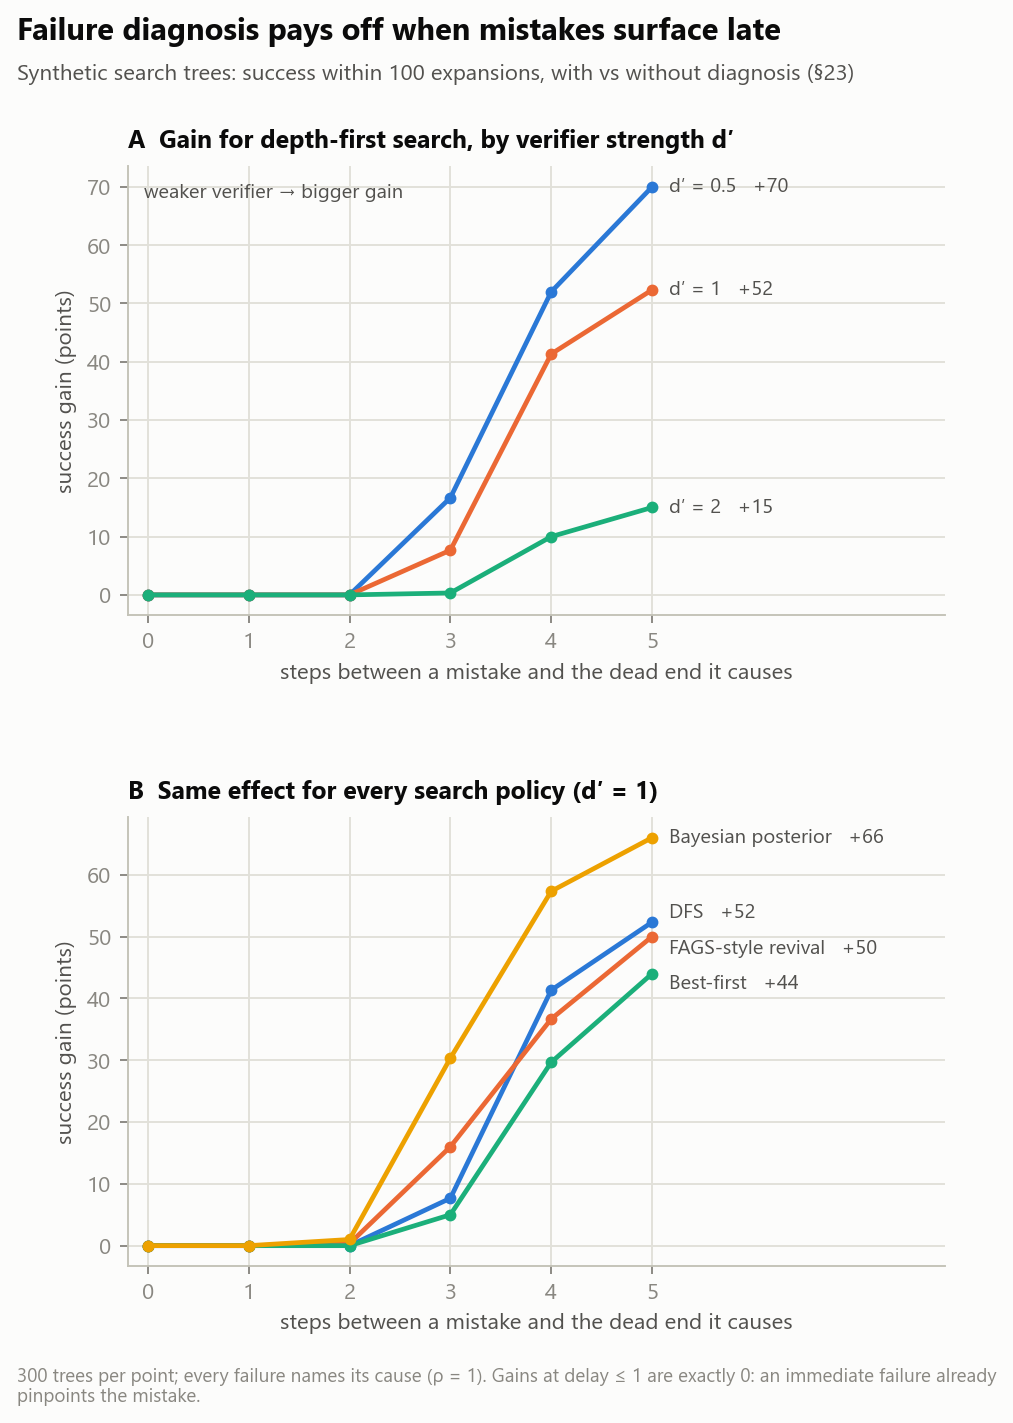
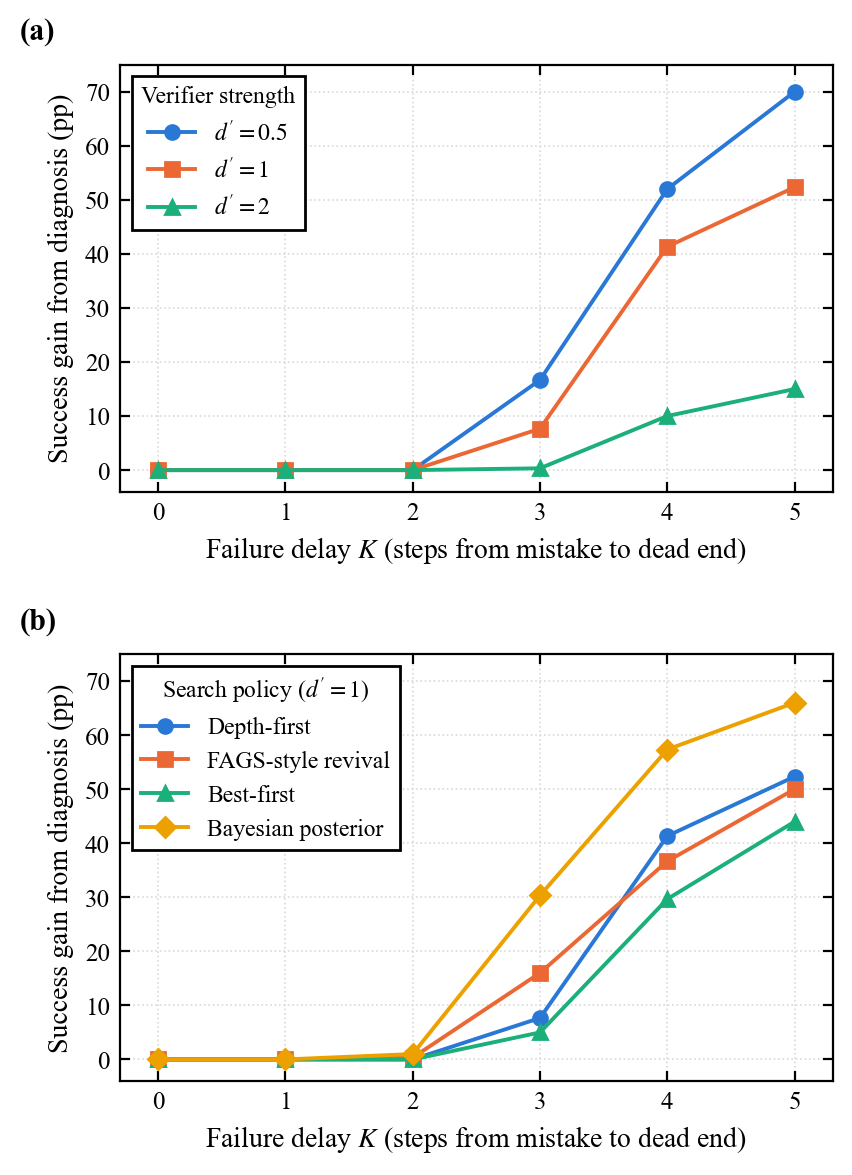
docs: restyle README figures as paper-style plots
Serif type, boxed axes with inward ticks, (a)/(b) panel labels, boxed legends and a distinct marker per series; titles and notes moved out of the images into the README captions.

diff --git a/make_readme_figures.py b/make_readme_figures.py
@@ -1,6 +1,7 @@
 """Builds the four README figures in docs/figures/ from the result files in
-results/v2/. Each figure is a portrait, two-part summary of one finding:
-a headline view plus a supporting view. Rerun after any experiment rerun."""
+results/v2/, in a conventional paper style: serif type, boxed axes, panel
+labels (a)/(b), boxed legends, distinct markers per series, no titles inside
+the image (the captions live in the README). Rerun after any experiment rerun."""
 
 from __future__ import annotations
 
@@ -22,111 +23,90 @@ RES = os.path.join(ROOT, "results", "v2")
 OUT = os.path.join(ROOT, "docs", "figures")
 os.makedirs(OUT, exist_ok=True)
 
-# Reference palette (dataviz skill), light mode. Slots 1-4 validated as a set
-# for adjacent-pair use; the lighter slots always carry direct labels.
-S1, S2, S3, S4 = "#2a78d6", "#eb6834", "#1baf7a", "#eda100"
-INK, INK2, MUTED, GRID, AXIS, SURF = "#0b0b0b", "#52514e", "#898781", "#e1e0d9", "#c3c2b7", "#fcfcfb"
-NEUTRAL = "#b9b7ae"  # baseline conditions
+# Colour-blind-safe categorical colours (validated as a set); every series also
+# gets its own marker and the legend names it, so colour is never needed alone.
+C1, C2, C3, C4 = "#2a78d6", "#eb6834", "#1baf7a", "#eda100"
+GRAY = "#9a9a9a"
+MARKERS = ["o", "s", "^", "D"]
 plt.rcParams.update({
-    "font.family": ["Segoe UI", "DejaVu Sans"], "font.size": 9.5, "text.color": INK,
-    "axes.edgecolor": AXIS, "axes.labelcolor": INK2, "xtick.color": MUTED, "ytick.color": MUTED,
-    "axes.facecolor": SURF, "figure.facecolor": SURF, "axes.spines.top": False, "axes.spines.right": False,
-    "axes.grid": True, "grid.color": GRID, "grid.linewidth": 0.8, "axes.axisbelow": True,
-    "legend.frameon": False, "savefig.dpi": 170, "savefig.bbox": "tight",
+    "font.family": "serif", "font.serif": ["Times New Roman", "DejaVu Serif"], "mathtext.fontset": "stix",
+    "font.size": 10, "axes.labelsize": 10, "xtick.labelsize": 9, "ytick.labelsize": 9, "legend.fontsize": 8.5,
+    "axes.linewidth": 0.8, "axes.edgecolor": "black", "axes.facecolor": "white", "figure.facecolor": "white",
+    "xtick.direction": "in", "ytick.direction": "in", "xtick.top": True, "ytick.right": True,
+    "xtick.major.width": 0.8, "ytick.major.width": 0.8,
+    "axes.grid": True, "grid.color": "#d9d9d9", "grid.linestyle": ":", "grid.linewidth": 0.6, "axes.axisbelow": True,
+    "legend.frameon": True, "legend.edgecolor": "black", "legend.fancybox": False, "legend.framealpha": 1.0,
+    "lines.linewidth": 1.4, "lines.markersize": 5, "savefig.dpi": 200, "savefig.bbox": "tight",
 })
-PORTRAIT = (6.2, 8.4)
+PORTRAIT = (4.6, 6.6)
 
 
-def header(fig, title, subtitle):
-    fig.text(0.02, 0.985, title, fontsize=13, fontweight="bold", color=INK, va="top")
-    fig.text(0.02, 0.952, subtitle, fontsize=9.5, color=INK2, va="top")
+def label(ax, letter):
+    ax.text(-0.14, 1.04, f"({letter})", transform=ax.transAxes, fontsize=11, fontweight="bold", va="bottom")
 
 
-def panel_title(ax, letter, text):
-    ax.set_title(f"{letter}  {text}", loc="left", fontsize=10.5, fontweight="bold", color=INK, pad=8)
-
-
-def footnote(fig, text):
-    fig.text(0.02, 0.012, text, fontsize=8, color=MUTED, va="bottom", wrap=True)
-
-
-def end_label(ax, x, y, text, color=INK2, dy=0):
-    ax.annotate(text, (x, y), xytext=(7, dy), textcoords="offset points", va="center", fontsize=8.5, color=color)
-
-
-# 1. Failure delay: diagnosis gain grows with how late mistakes surface.
+# Figure 1. Diagnosis gain vs failure delay.
 def fig_delay():
     succ = defaultdict(dict)
     for r in csv.DictReader(open(os.path.join(RES, "failure_informativeness.csv"), encoding="utf-8")):
         if r["rho"] == "1.0":
             succ[(float(r["d_prime"]), int(r["max_delay"]))][r["method"]] = float(r["success@100"])
     ks = list(range(6))
-    fig, (a1, a2) = plt.subplots(2, 1, figsize=PORTRAIT, gridspec_kw={"hspace": 0.45})
-    header(fig, "Failure diagnosis pays off when mistakes surface late",
-           "Synthetic search trees: success within 100 expansions, with vs without diagnosis (§23)")
-    for d, color in zip((0.5, 1.0, 2.0), (S1, S2, S3)):
-        g = [100 * (succ[(d, k)]["DFS+diag"] - succ[(d, k)]["DFS"]) for k in ks]
-        a1.plot(ks, g, color=color, lw=2, marker="o", ms=4)
-        end_label(a1, ks[-1], g[-1], f"d′ = {d:g}   +{g[-1]:.0f}")
-    panel_title(a1, "A", "Gain for depth-first search, by verifier strength d′")
-    a1.set_ylabel("success gain (points)")
-    a1.text(0.02, 0.93, "weaker verifier → bigger gain", transform=a1.transAxes, fontsize=8.5, color=INK2)
-    pol = [("DFS", "DFS", S1, 4), ("FAGS-style", "FAGS-style revival", S2, -5), ("BestFirst-mean", "Best-first", S3, -4),
-           ("Posterior", "Bayesian posterior", S4, 0)]
-    for base, label, color, dy in pol:
-        g = [100 * (succ[(1.0, k)][f"{base}+diag"] - succ[(1.0, k)][base]) for k in ks]
-        a2.plot(ks, g, color=color, lw=2, marker="o", ms=4)
-        end_label(a2, ks[-1], g[-1], f"{label}   +{g[-1]:.0f}", dy=dy)
-    panel_title(a2, "B", "Same effect for every search policy (d′ = 1)")
-    a2.set_ylabel("success gain (points)")
-    for ax in (a1, a2):
-        ax.set_xlim(-0.2, 7.9)
+    fig, (a1, a2) = plt.subplots(2, 1, figsize=PORTRAIT, gridspec_kw={"hspace": 0.38})
+    for (d, color), m in zip(zip((0.5, 1.0, 2.0), (C1, C2, C3)), MARKERS):
+        a1.plot(ks, [100 * (succ[(d, k)]["DFS+diag"] - succ[(d, k)]["DFS"]) for k in ks],
+                color=color, marker=m, label=f"$d'={d:g}$")
+    a1.legend(title="Verifier strength", loc="upper left", title_fontsize=8.5)
+    pol = [("DFS", "Depth-first"), ("FAGS-style", "FAGS-style revival"), ("BestFirst-mean", "Best-first"),
+           ("Posterior", "Bayesian posterior")]
+    for (base, name), color, m in zip(pol, (C1, C2, C3, C4), MARKERS):
+        a2.plot(ks, [100 * (succ[(1.0, k)][f"{base}+diag"] - succ[(1.0, k)][base]) for k in ks],
+                color=color, marker=m, label=name)
+    a2.legend(title="Search policy ($d'=1$)", loc="upper left", title_fontsize=8.5)
+    for ax, letter in ((a1, "a"), (a2, "b")):
         ax.set_xticks(ks)
-        ax.set_xlabel("steps between a mistake and the dead end it causes")
-    footnote(fig, "300 trees per point; every failure names its cause (ρ = 1). Gains at delay ≤ 1 are exactly 0: "
-                  "an immediate failure already pinpoints the mistake.")
+        ax.set_xlim(-0.3, 5.3)
+        ax.set_ylim(-4, 75)
+        ax.set_xlabel("Failure delay $K$ (steps from mistake to dead end)")
+        ax.set_ylabel("Success gain from diagnosis (pp)")
+        label(ax, letter)
     fig.savefig(os.path.join(OUT, "diagnosis_vs_delay.png"))
     plt.close(fig)
 
 
-# 2. LLM code repair: small multiples, one panel per model, with 95% CIs.
+# Figure 2. LLM code repair by feedback type, one panel per model.
 def fig_llm():
-    conds = [("restart", "Fresh retry", NEUTRAL), ("binary", '"It failed"', NEUTRAL),
-             ("diagnostic", "Exact diagnosis", S1),
-             ("noisy_hard", "50%-wrong diagnosis, as fact", S2), ("noisy_soft", "…flagged as unreliable", S2),
-             ("noisy_verify", "…model told to verify", S2), ("noisy_vote2", "…two checkers must agree", S2)]
+    conds = [("restart", "Fresh retry", GRAY), ("binary", "Failure signal only", GRAY),
+             ("diagnostic", "Exact diagnosis", C1),
+             ("noisy_hard", "Noisy diagnosis (as fact)", C2), ("noisy_soft", "Noisy, flagged unreliable", C2),
+             ("noisy_verify", "Noisy, model verifies", C2), ("noisy_vote2", "Noisy, two checkers agree", C2)]
     models = ["qwen3.8-27b", "gpt-oss-120b", "gpt-oss-20b"]
-    fig, axes = plt.subplots(3, 1, figsize=(6.2, 9.4), sharex=True, gridspec_kw={"hspace": 0.35})
-    header(fig, "LLMs repair code when told why it failed",
-           "MBPP+ problems whose first attempt failed; success on hidden tests within 3 LLM calls (§29, §33a)")
-    for ax, tag in zip(axes, models):
+    fig, axes = plt.subplots(3, 1, figsize=(4.6, 8.2), sharex=True, gridspec_kw={"hspace": 0.32})
+    for ax, tag, letter in zip(axes, models, "abc"):
         runs = defaultdict(dict)
         for line in open(os.path.join(RES, f"llm_feedback_runs_{tag}_v2.jsonl"), encoding="utf-8"):
             r = json.loads(line)
             runs[r["task_id"]][r["condition"]] = r
         done = sorted(t for t, d in runs.items() if all(c in d for c, _, _ in conds))
-        y = np.arange(len(conds))
-        for i, (c, label, color) in enumerate(conds):
+        for i, (c, _, color) in enumerate(conds):
             xs = [int(submitted(runs[t][c]["attempts"], 3)["hidden_pass"]) for t in done]
             m, lo, hi = (100 * v for v in cluster_bootstrap_ci(xs, done, seed=1))
-            ax.barh(i, m, height=0.62, color=color)
-            ax.errorbar(m, i, xerr=[[m - lo], [hi - m]], fmt="none", ecolor=INK2, elinewidth=1, capsize=2.5)
-            ax.text(hi + 1.2, i, f"{m:.0f}%", va="center", fontsize=8.5, color=INK2)
-        ax.set_yticks(y, [label for _, label, _ in conds], color=INK, fontsize=9)
+            ax.barh(i, m, height=0.65, color=color, edgecolor="black", linewidth=0.5)
+            ax.errorbar(m, i, xerr=[[m - lo], [hi - m]], fmt="none", ecolor="black", elinewidth=0.8, capsize=2)
+        ax.set_yticks(range(len(conds)), [name for _, name, _ in conds])
         ax.invert_yaxis()
         ax.grid(axis="y", visible=False)
-        ax.set_xlim(0, 92)
-        panel_title(ax, "", f"{tag}   (n = {len(done)} problems)")
-    axes[-1].set_xlabel("% of initially failing problems solved   (bars: mean, whiskers: 95% bootstrap CI)")
-    handles = [plt.Rectangle((0, 0), 1, 1, color=c) for c in (NEUTRAL, S1, S2)]
-    fig.legend(handles, ["no diagnosis", "true diagnosis", "unreliable diagnosis (50% wrong)"],
-               loc="upper left", bbox_to_anchor=(0.02, 0.935), ncol=3, fontsize=8.5)
-    footnote(fig, "Visible tests give the feedback; success is judged only on held-out EvalPlus inputs the model never sees.")
+        ax.set_xlim(0, 85)
+        ax.tick_params(axis="y", length=0)
+        ax.text(0.98, 0.05, f"{tag}\n$n={len(done)}$", transform=ax.transAxes, ha="right", va="bottom", fontsize=8.5,
+                bbox={"boxstyle": "square,pad=0.3", "facecolor": "white", "edgecolor": "black", "linewidth": 0.6})
+        label(ax, letter)
+    axes[-1].set_xlabel("Problems solved on held-out tests (%)")
     fig.savefig(os.path.join(OUT, "llm_feedback.png"))
     plt.close(fig)
 
 
-# 3. Soft backjumping on real Sudoku with noisy diagnoses, both orderings.
+# Figure 3. Acting on noisy diagnoses in Sudoku, two variable orderings.
 def fig_sudoku():
     rows = list(csv.DictReader(open(os.path.join(RES, "sudoku_noisy.csv"), encoding="utf-8")))
     key = [k for k in rows[0] if k.startswith("success@")][0]
@@ -135,33 +115,26 @@ def fig_sudoku():
         return 100 * float(next(r[key] for r in rows if r["ordering"] == order and r["search"] == "DFS"
                                  and r["mode"] == mode and float(r["eps"]) == eps))
     eps = [0.1, 0.3, 0.5]
-    fig, axes = plt.subplots(2, 1, figsize=PORTRAIT, gridspec_kw={"hspace": 0.45})
-    header(fig, "Defer, don't delete: acting on unreliable diagnoses",
-           "295 hard Sudoku puzzles, depth-first search, 20,000-step budget (§31)")
-    for ax, order, letter, text in ((axes[0], "mrv", "A", "Fail-first ordering (mistakes surface quickly)"),
-                                    (axes[1], "static", "B", "Row-by-row ordering (mistakes surface late)")):
-        none = get(order, "none", 0.0)
-        ax.axhline(none, color=MUTED, lw=1.4, ls=(0, (4, 3)))
-        ax.text(0.1, none - 2.5, f"ignore diagnoses  {none:.0f}%", ha="left", va="top", fontsize=8.5, color=MUTED)
-        nudge = {"mrv": {"defer": 0, "vote2": 0, "hard": 0}, "static": {"defer": 7, "vote2": 6, "hard": -6}}[order]
-        for mode, label, color in (("defer", "Defer (soft backjumping)", S1), ("vote2", "Prune if two agree", S2),
-                                   ("hard", "Prune immediately", S3)):
-            ys = [get(order, mode, e) for e in eps]
-            ax.plot(eps, ys, color=color, lw=2, marker="o", ms=4)
-            end_label(ax, eps[-1], ys[-1], f"{label}  {ys[-1]:.0f}%", dy=nudge[mode])
-        panel_title(ax, letter, text)
-        ax.set_xticks(eps, ["10%", "30%", "50%"])
-        ax.set_xlim(0.07, 0.8)
+    fig, axes = plt.subplots(2, 1, figsize=PORTRAIT, gridspec_kw={"hspace": 0.38})
+    for ax, order, letter, name in ((axes[0], "mrv", "a", "MRV ordering"), (axes[1], "static", "b", "Static ordering")):
+        ax.axhline(get(order, "none", 0.0), color="black", lw=1.0, ls="--", label="No diagnosis")
+        for (mode, lab), color, m in zip((("defer", "Defer (soft backjumping)"), ("vote2", "Prune after two votes"),
+                                           ("hard", "Prune immediately")), (C1, C2, C3), MARKERS):
+            ax.plot([100 * e for e in eps], [get(order, mode, e) for e in eps], color=color, marker=m, label=lab)
+        ax.set_xticks([10, 30, 50])
+        ax.set_xlim(5, 55)
         ax.set_ylim(0, 100)
-        ax.set_ylabel("puzzles solved (%)")
-        ax.set_xlabel("share of failure diagnoses that are wrong")
-    footnote(fig, "A wrong diagnosis blames a random earlier move, possibly one on the solution path. Defer beat both "
-                  "pruning rules in all 12 tested conditions and was never worse than ignoring diagnoses.")
+        ax.set_xlabel(r"Diagnosis error rate $\epsilon$ (%)")
+        ax.set_ylabel("Puzzles solved (%)")
+        ax.text(0.02, 0.04 if order == "mrv" else 0.95, name, transform=ax.transAxes, ha="left",
+                va="bottom" if order == "mrv" else "top", fontsize=9, style="italic")
+        label(ax, letter)
+    axes[1].legend(loc="upper right")
     fig.savefig(os.path.join(OUT, "sudoku_soft_backjumping.png"))
     plt.close(fig)
 
 
-# 4. KGQA: the verifier is the ceiling, and search width doesn't matter.
+# Figure 4. Knowledge-graph QA: verifier ceiling and beam-width sweep.
 def fig_kgqa():
     syn = {r["beam_width"]: 100 * float(r["hits1_answer_set"])
            for r in csv.DictReader(open(os.path.join(RES, "error_decomposition.csv"), encoding="utf-8"))
@@ -172,47 +145,43 @@ def fig_kgqa():
             syn_goal = float(line.split("legacy goal-test beam-8 acc=")[1].rstrip("%\n"))
     mq = {r["method"]: r for r in csv.DictReader(open(os.path.join(RES, "metaqa_results.csv"), encoding="utf-8")) if r["hops"] == "3"}
     wq = {r["method"]: r for r in csv.DictReader(open(os.path.join(RES, "webqsp_results.csv"), encoding="utf-8"))}
-    groups = ["Synthetic KG", "MetaQA 3-hop", "WebQSP"]
+    groups = ["Synthetic", "MetaQA (3-hop)", "WebQSP"]
     search = [syn["8"], 100 * float(mq["path-beam-8"]["hits1"]), 100 * float(wq["rel-beam-32"]["hits1"])]
     oracle = [100.0, 100 * float(mq["oracle"]["hits1"]), 100 * float(wq["oracle"]["hits1"])]
     goal = [syn_goal, 100 * float(mq["path-beam-8"]["goal_test_rate"]), 100 * float(wq["rel-beam-32"]["goal_test_rate"])]
 
-    fig, (a1, a2) = plt.subplots(2, 1, figsize=PORTRAIT, gridspec_kw={"hspace": 0.55})
-    header(fig, "In knowledge-graph QA the verifier is the bottleneck",
-           "Same relation-path search scored three ways, on three datasets (§22, §24, §32)")
+    fig, (a1, a2) = plt.subplots(2, 1, figsize=PORTRAIT, gridspec_kw={"hspace": 0.38})
     x = np.arange(len(groups))
-    w = 0.25
-    for i, (vals, label, color) in enumerate(((search, "Search's committed answer", S1),
-                                               (oracle, "Best possible path", S2),
-                                               (goal, "Old 'touched the answer' score", S3))):
-        bars = a1.bar(x + (i - 1) * (w + 0.02), vals, width=w, color=color, label=label)
-        for b, v in zip(bars, vals):
-            a1.text(b.get_x() + b.get_width() / 2, v + 1.5, f"{v:.0f}", ha="center", fontsize=8, color=INK2)
-    a1.set_xticks(x, groups, color=INK)
+    w = 0.26
+    for i, (vals, name, color, hatch) in enumerate(((search, "Committed answer", C1, ""),
+                                                     (oracle, "Oracle path", C2, "//"),
+                                                     (goal, "Goal-test score", C3, ".."))):
+        a1.bar(x + (i - 1) * w, vals, width=w, color=color, edgecolor="black", linewidth=0.5, hatch=hatch, label=name)
+    a1.set_xticks(x, groups)
     a1.set_ylim(0, 115)
-    a1.set_ylabel("accuracy (%)")
+    a1.set_ylabel("Accuracy (%)")
     a1.grid(axis="x", visible=False)
-    a1.legend(loc="upper center", bbox_to_anchor=(0.5, -0.1), ncol=3, fontsize=8)
-    panel_title(a1, "A", "Large gap to the best path; the old score hid it")
+    a1.tick_params(axis="x", length=0)
+    a1.legend(loc="upper center", ncol=3, fontsize=7.8, handlelength=1.4, columnspacing=0.9)
+    label(a1, "a")
 
-    series = [("Synthetic KG", [(1, syn["1"]), (3, syn["3"]), (8, syn["8"]), (64, syn["64"])], S1),
-              ("MetaQA 3-hop", [(1, 100 * float(mq["path-greedy"]["hits1"])), (3, 100 * float(mq["path-beam-3"]["hits1"])),
-                                (8, 100 * float(mq["path-beam-8"]["hits1"])), (18, 100 * float(mq["path-beam-18"]["hits1"]))], S2),
+    series = [("Synthetic", [(1, syn["1"]), (3, syn["3"]), (8, syn["8"]), (64, syn["64"])], C1),
+              ("MetaQA (3-hop)", [(1, 100 * float(mq["path-greedy"]["hits1"])), (3, 100 * float(mq["path-beam-3"]["hits1"])),
+                                  (8, 100 * float(mq["path-beam-8"]["hits1"])), (18, 100 * float(mq["path-beam-18"]["hits1"]))], C2),
               ("WebQSP", [(1, 100 * float(wq["rel-greedy"]["hits1"])), (3, 100 * float(wq["rel-beam-3"]["hits1"])),
-                          (8, 100 * float(wq["rel-beam-8"]["hits1"])), (32, 100 * float(wq["rel-beam-32"]["hits1"]))], S3)]
-    for (name, pts, color), dy in zip(series, (-6, 0, 6)):
+                          (8, 100 * float(wq["rel-beam-8"]["hits1"])), (32, 100 * float(wq["rel-beam-32"]["hits1"]))], C3)]
+    for (name, pts, color), m in zip(series, MARKERS):
         xs, ys = zip(*pts)
-        a2.plot(xs, ys, color=color, lw=2, marker="o", ms=4)
-        end_label(a2, xs[-1], ys[-1], f"{name}  {ys[-1]:.0f}%", dy=dy)
+        a2.plot(xs, ys, color=color, marker=m, label=name)
     a2.set_xscale("log")
     a2.set_xticks([1, 3, 8, 18, 32, 64], ["1", "3", "8", "18", "32", "64"])
-    a2.set_xlim(0.8, 260)
+    a2.minorticks_off()
+    a2.set_xlim(0.8, 80)
     a2.set_ylim(0, 60)
-    a2.set_xlabel("beam width (number of hypotheses kept; 1 = greedy)")
-    a2.set_ylabel("accuracy (%)")
-    panel_title(a2, "B", "Searching wider doesn't help past ~3 hypotheses")
-    footnote(fig, "Synthetic: rule-based verifier, Medium graph, 1,500 queries. MetaQA (1,000 questions) and WebQSP "
-                  "(500 questions): BGE embedding verifiers. Accuracy = committed answer in the gold answer set.")
+    a2.set_xlabel("Beam width")
+    a2.set_ylabel("Accuracy (%)")
+    a2.legend(loc="lower right")
+    label(a2, "b")
     fig.savefig(os.path.join(OUT, "kgqa_verifier_ceiling.png"))
     plt.close(fig)
 
